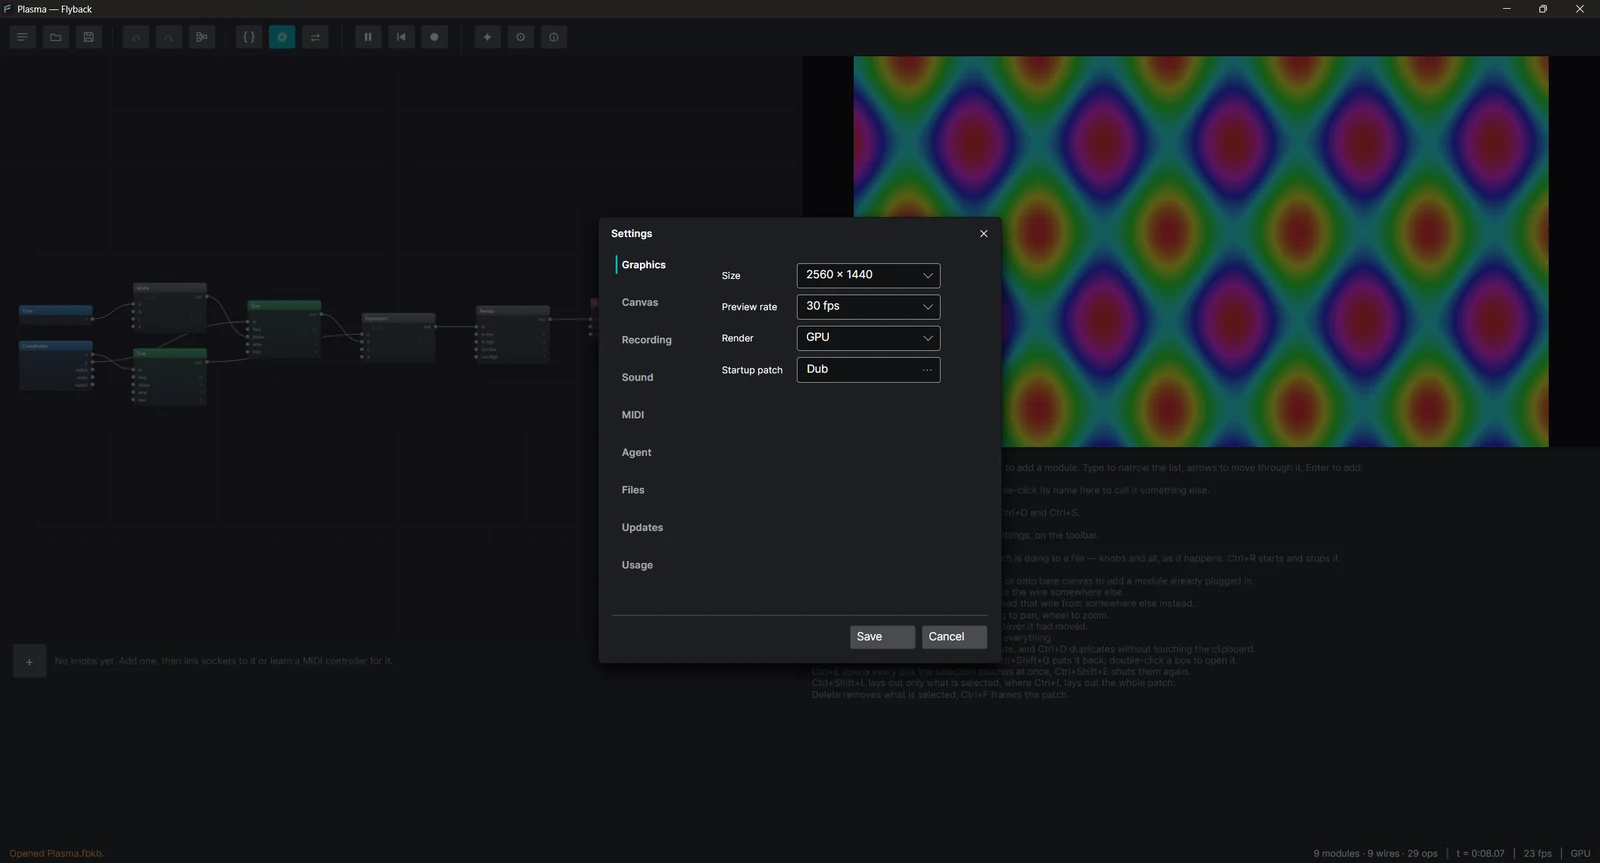
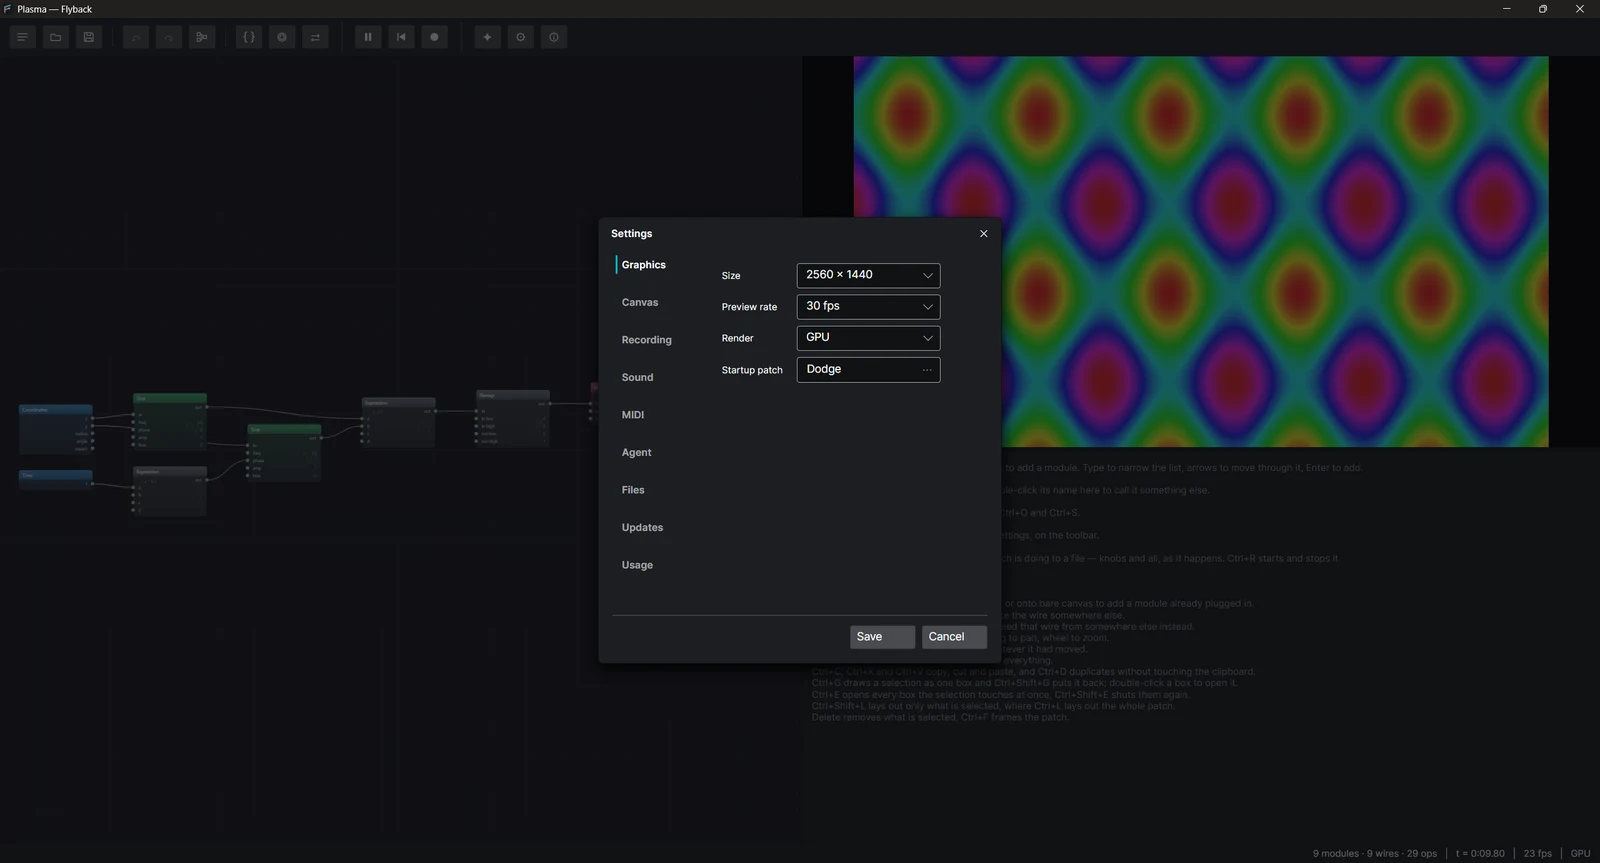
The tutorial's Settings screenshot shows today's canvas behind the dialog
settings.webp is retaken over Plasma with the module wash and marks under the
scrim, and the skill's toolbar coordinates now allow for the Pause button that
moved Rewind along.

diff --git a/site/tutorials.html b/site/tutorials.html
@@ -470,7 +470,7 @@ out.volume = 0.5</code></pre>
     <figure>
       <a class="zoom" href="assets/shots/settings.webp" target="_blank" rel="noopener">
         <img class="shot" loading="lazy" src="assets/shots/settings.webp" width="1600" height="863"
-             alt="The Settings window over the dimmed main window, on the Graphics tab: Size 2560 by 1440, Preview rate 30 fps, Render GPU, Startup patch Dub. Tabs for Canvas, Recording, Sound, MIDI, Agent, Files, Updates and Usage are on the left.">
+             alt="The Settings window over the dimmed main window, on the Graphics tab: Size 2560 by 1440, Preview rate 30 fps, Render GPU, Startup patch Dodge. Tabs for Canvas, Recording, Sound, MIDI, Agent, Files, Updates and Usage are on the left.">
       </a>
     </figure>
 

diff --git a/.claude/skills/site-screenshots/SKILL.md b/.claude/skills/site-screenshots/SKILL.md
@@ -35,7 +35,7 @@ A preset with sound plays through the user's speakers while it is captured, for 
 ## Coordinates and popups
 
 - Call `SetProcessDPIAware()` in the PowerShell script before anything else. Without it the script sees the window at its scaled-down 2062x1118 size and `PrintWindow` cuts off the right and the bottom; with it, the maximized window is 2578x1398 with a 2560x1380 frame at (9, 9), which is what is cropped.
-- Posted clicks are in **client** coordinates, physical pixels, and the client area starts under the native title bar: the toolbar's first button is about (35, 30), Rewind about (589, 30) and `{ }` about (398, 30). From a 1600-wide crop, client is about (x x 1.6, y x 1.6 - 29).
+- Posted clicks are in **client** coordinates, physical pixels, and the client area starts under the native title bar: the toolbar's first button is about (35, 30), Pause about (589, 30), Rewind about (643, 30), Settings about (833, 30) and `{ }` about (398, 30). From a 1600-wide crop, client is about (x x 1.6, y x 1.6 - 29).
 - `WM_MOUSEWHEEL` takes screen coordinates, so turn a client point into one with `ClientToScreen` before posting it; a negative notch count zooms in.
 - A dropdown is a separate top-level popup window of the same process, so `PrintWindow` on the main handle misses it. `EnumWindows` for the process's other visible windows, `PrintWindow` each, and draw it onto the main capture at its screen offset (how presets-list.webp was made, list open over Kaleidoscope).
 - The module list opens under the real mouse pointer, not where a posted click lands, and a posted right-click often opens nothing. Send Space instead, and pan the canvas (posted middle-drag) to put the patch beside `GetCursorPos` just before it, in one script; the user's mouse moves between separate ones (how palette.webp was made).

diff --git a/docs/adr/0116-a-module-is-drawn-as-its-category-and-a-standout-as-itself.md b/docs/adr/0116-a-module-is-drawn-as-its-category-and-a-standout-as-itself.md
@@ -97,5 +97,4 @@ module of its own —
 [0119](0119-the-website-shows-a-module-by-photographing-one.md) replaced the
 drawn node cards with photographs of the real canvas — so the wash and the
 mark reach the site the same way any other change to a module's appearance
-does, the next time its shots are retaken. One was left: `settings.webp`,
-whose canvas is under a dialog's scrim.
+does, the next time its shots are retaken.
